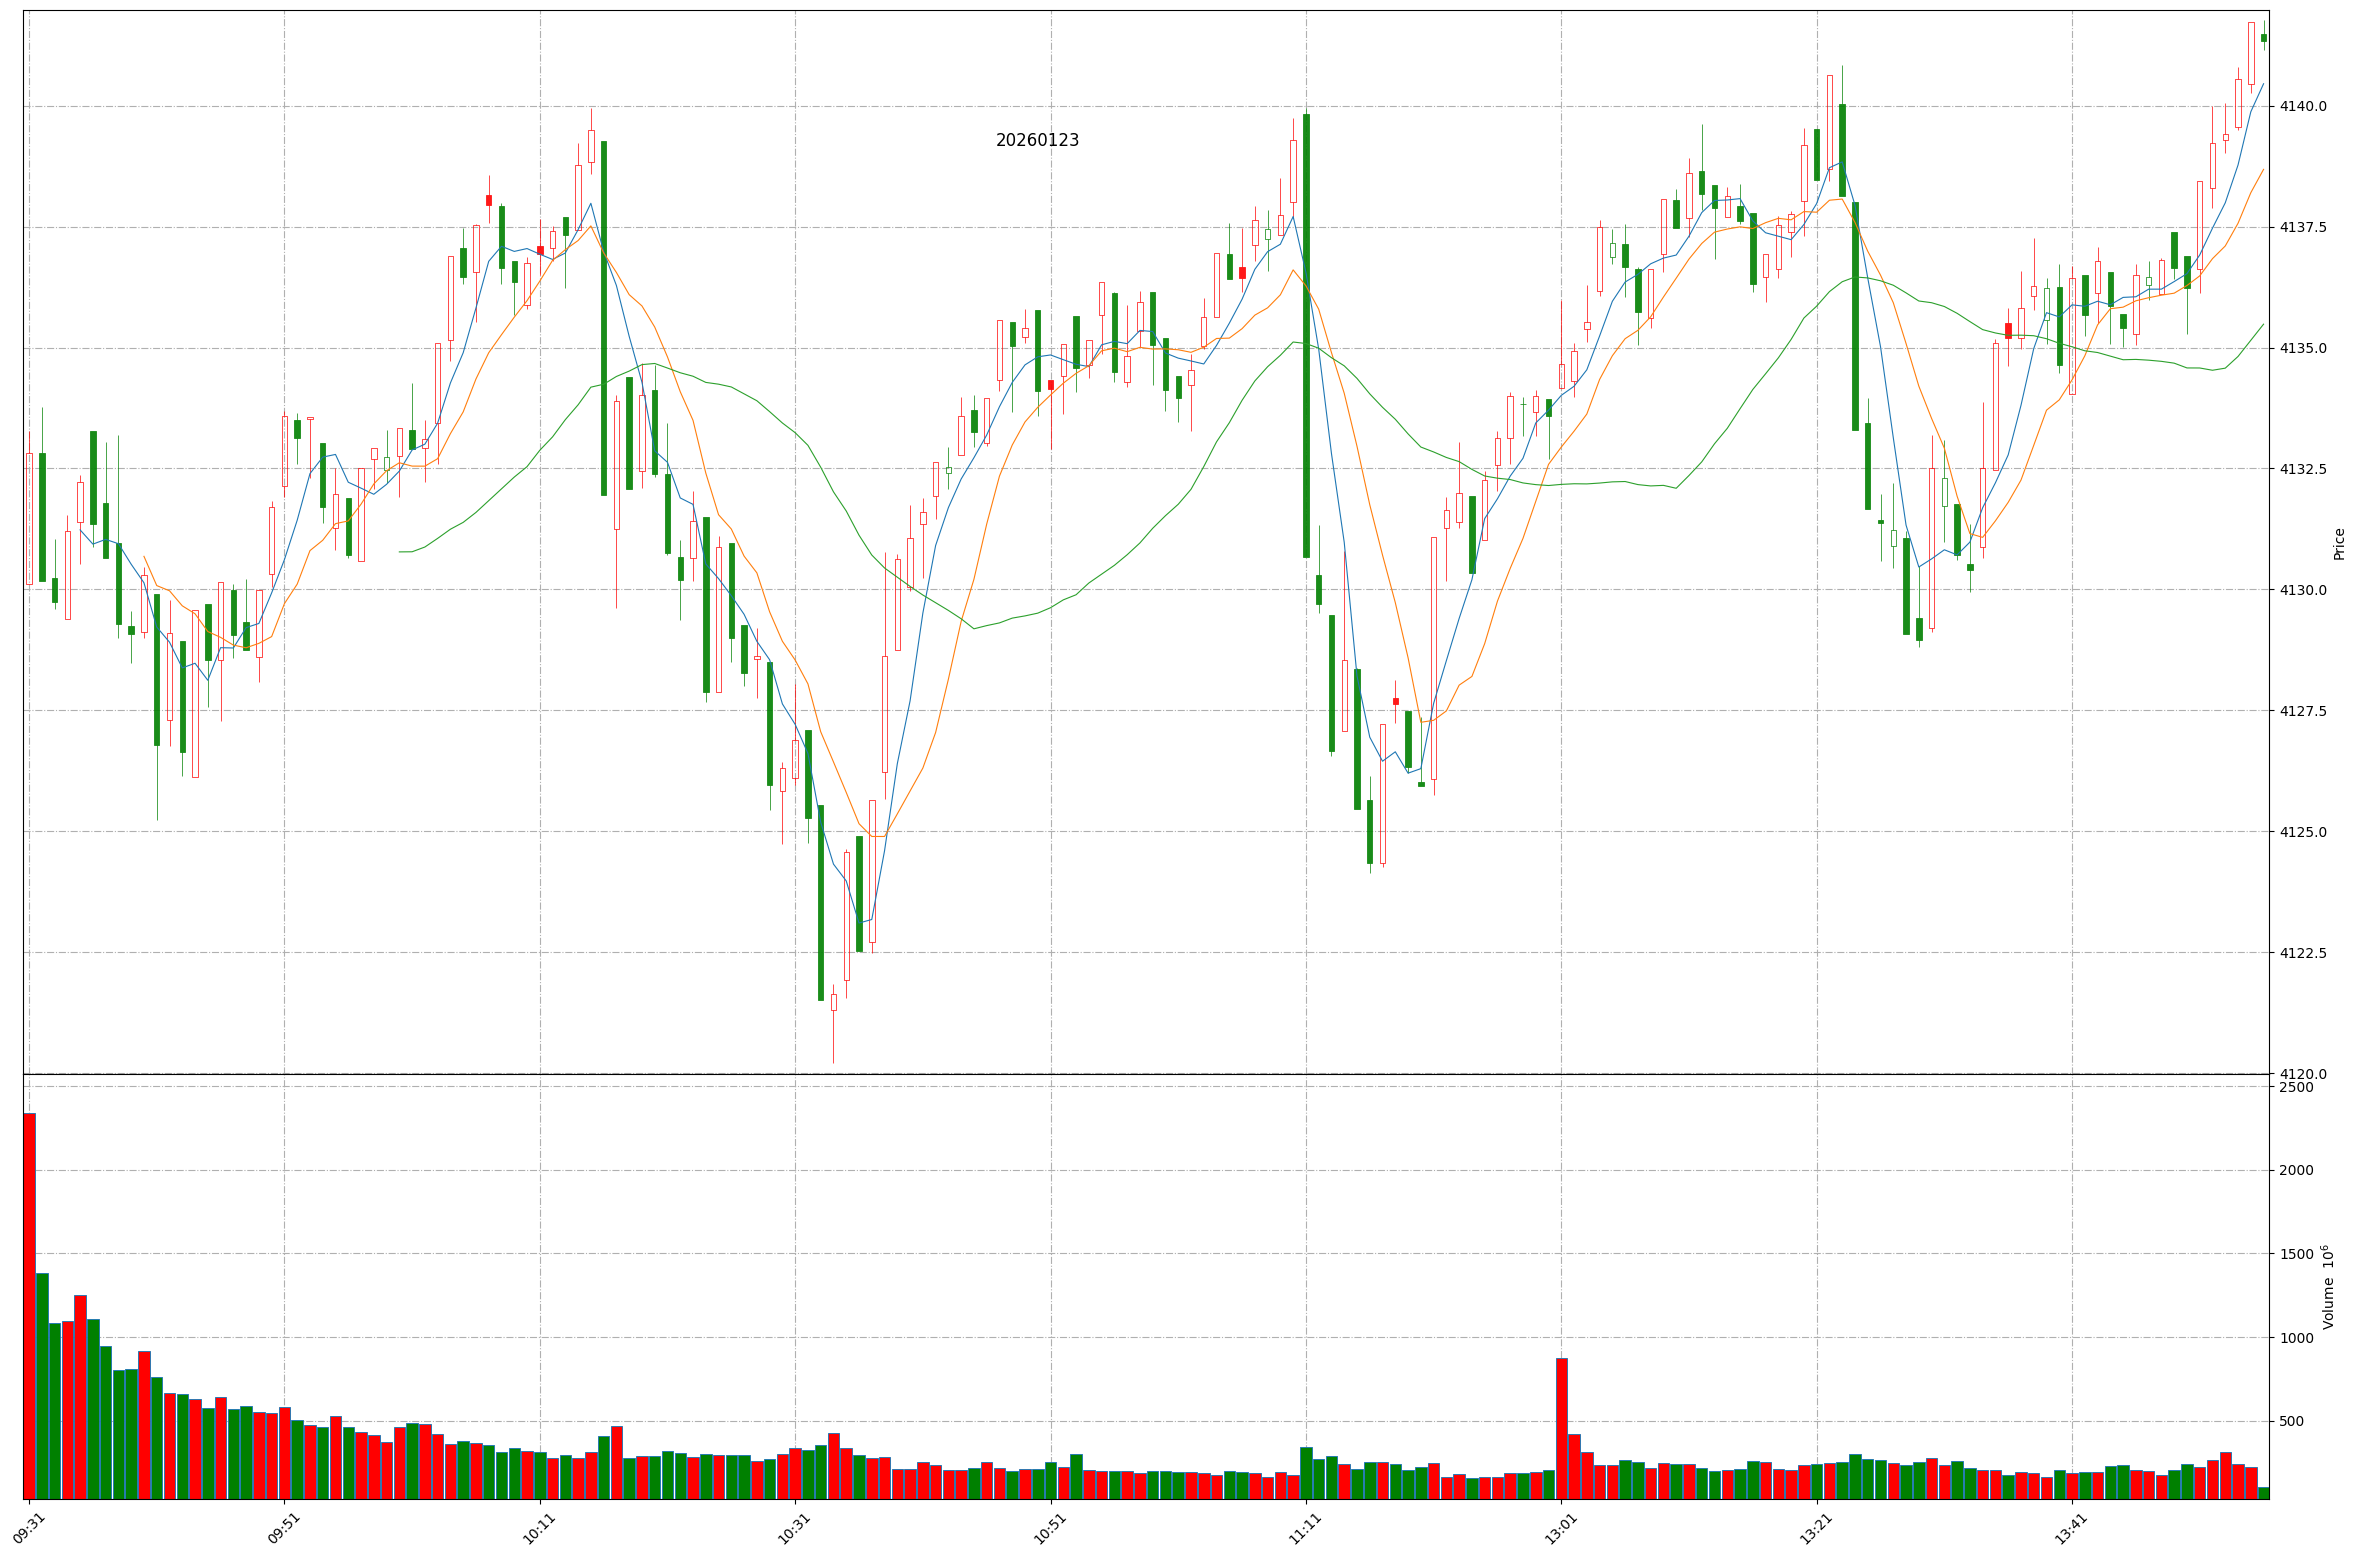
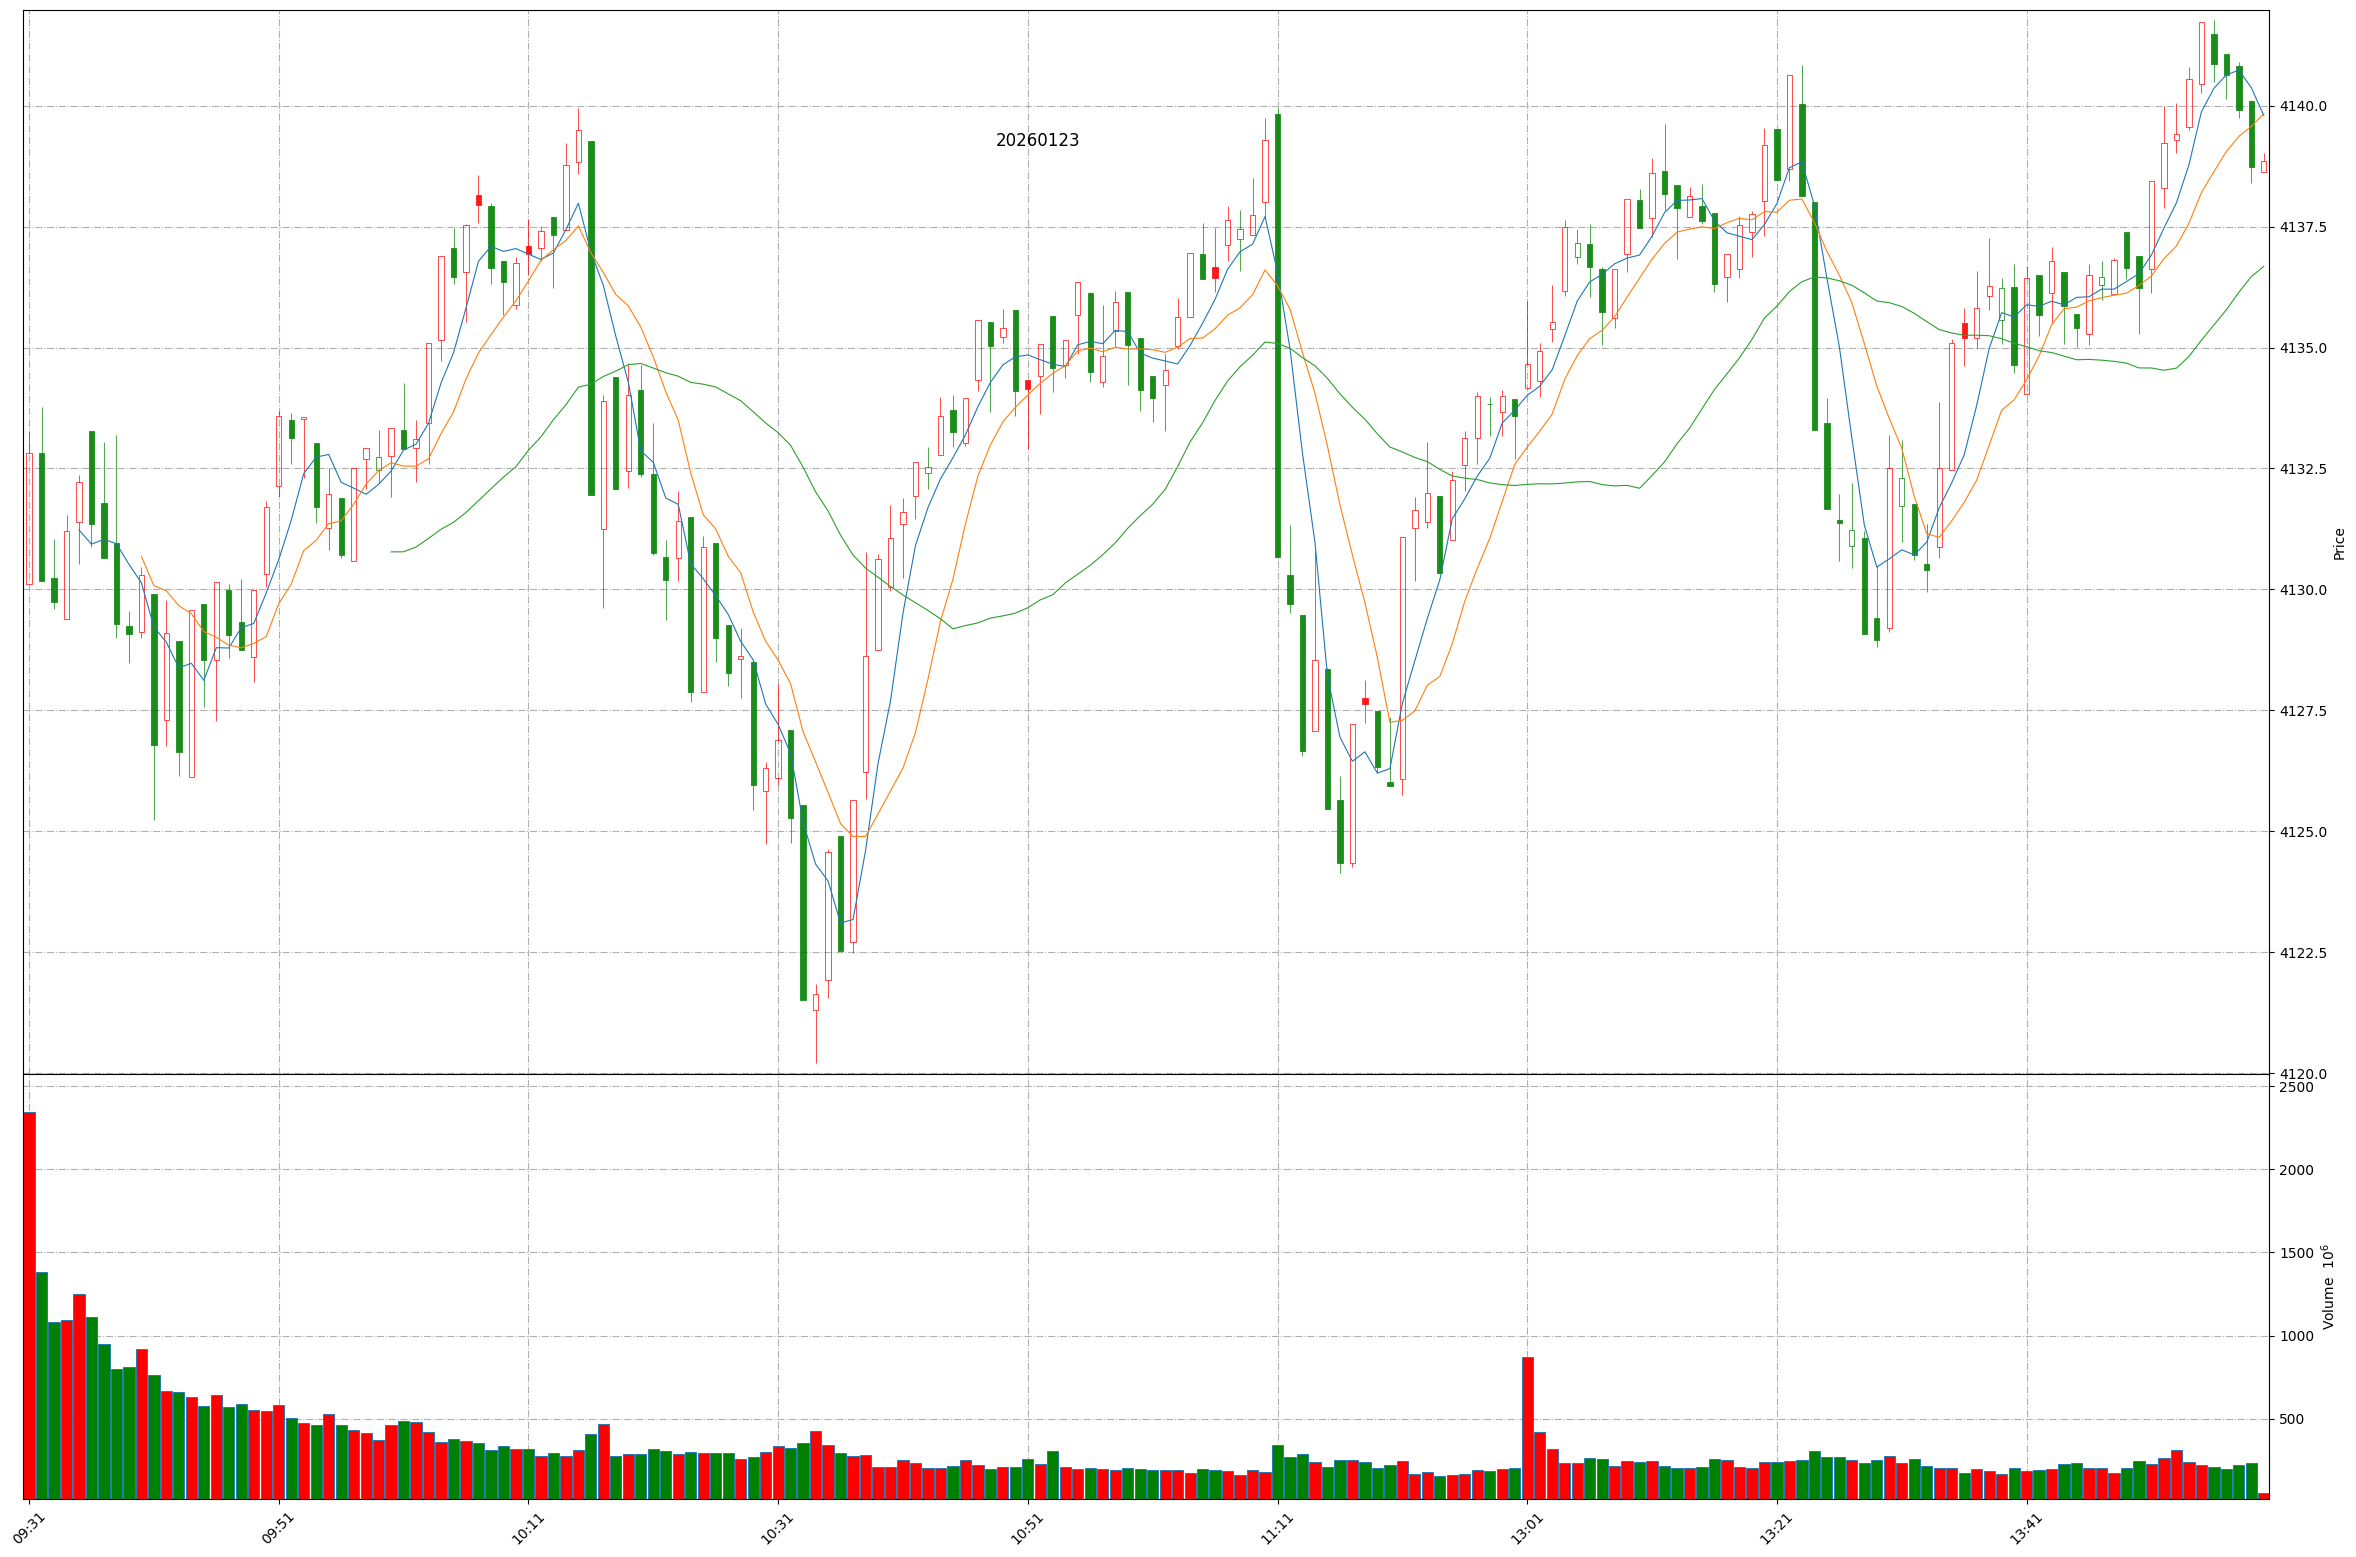
Github action update at 2026-01-23 13:59:27.

diff --git a/README.md b/README.md
@@ -1,11 +1,11 @@
 
 # Daily-A-share-market-quotes 每日 A 股指数（5min 更新）- 20260123
 
-### 上证指数 20260123 13:55
+### 上证指数 20260123 13:59
 ![](./fig/2026/1/20260123-sh000001.png)
 
-### 深证成指 20260123 13:55
+### 深证成指 20260123 13:59
 ![](./fig/2026/1/20260123-sz399001.png)
 
-### 北证50 20260123 13:55
+### 北证50 20260123 13:59
 ![](./fig/2026/1/20260123-bj899050.png)
